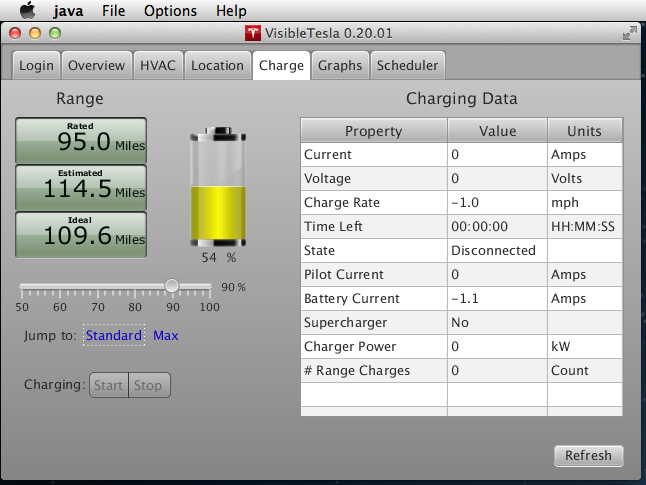
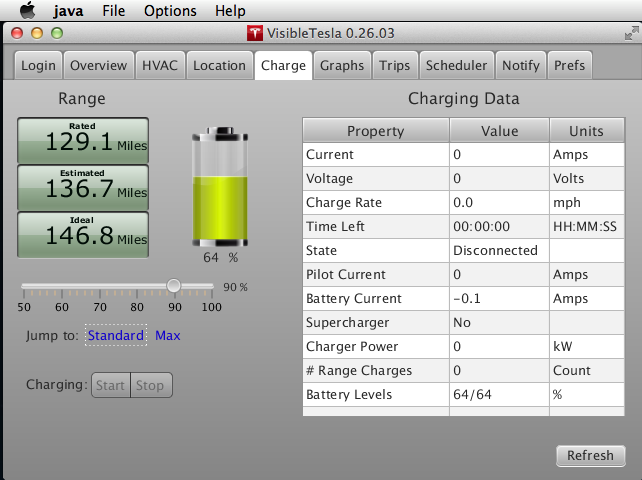
Update the docs

diff --git a/Documentation/ReleaseNotes.html b/Documentation/ReleaseNotes.html
@@ -19,14 +19,98 @@
 			<h1>
 				VisibleTesla Release Notes
 			</h1>
-			<h3>
-				VisibleTesla 0.26.02 [04-14-2014]
+		<h3>
+			VisibleTesla 0.26.03 [04-20-2014]
+		</h3>
+		<ul>
+			<li>User-Visible Changes
+				<ul>
+					<li>General
+						<ul>
+							<li>
+								<span class="changed">Refinement</span>: The proxy fix that was introduced in 0.26.02 has been confirmed to work by several users so I removed the note about it being experimental. 
+							</li>
+								<li>
+									<span class="fixed">Fix</span>: The charts and raw data were always displaying range in terms of miles even when the car's interface was set to kilometers.
+								</li>
+						</ul>
+					</li>
+					<li>Login
+						<ul>
+						</ul>
+					</li>
+					<li>Overview
+						<ul>
+						</ul>
+					</li>
+					<li>HVAC
+						<ul>
+						</ul>
+					</li>
+					<li>Location
+						<ul>
+								<li>
+									<span class="changed">Refinement</span>: Minor updates to the graphics for the Speedometer/Power gauge including a more digital-looking font.
+								</li>
+						</ul>
+					</li>
+					<li>Charge
+						<ul>
+							<li>
+								<span class="fixed">Fix</span>: The snowflake depicting cold weather conditions is actually not derived from the temperature. It was shown when the usable battery level differs from the "normal" battery level. Because I am actually not taking temperature into account (it is the implied reason for the lower usable level), I know longer show a snowflake. Instead, the Battery Gauge shows two distinct levels for this case. The lower level is the usable battery level and the higher level is the "normal" battery level. Both levels are shown at the bottom of the <span class="ui">Charging Data</span> table.
+								<br><br>
+								In the previous version the snowflake would be displayed no matter how insignificant the difference was between levels. This could lead to it being displayed for what were effectively rounding errors. Now the two levels are displayed in the gauge only if the difference is at least 5 percentage points.
+							</li>
+						</ul>
+					</li>
+					<li>Graphs
+						<ul>
+						</ul>
+					</li>
+					<li>Trips
+						<ul>
+						</ul>
+					</li>
+					<li>Scheduler
+						<ul>
+							<li>
+								<span class="changed">Refinement</span>: The message issued by the "Unplugged?" scheduler event now includes the remaining range. When you receive a notification reminding you that your car is unplugged, you'll be able to see the remaining range and decide whether it is worth going out to plug in your car.
+							</li>
+						</ul>
+					</li>
+					<li>Notify
+						<ul>
+						</ul>
+					</li>
+					<li>Prefs
+						<ul>
+						</ul>
+					</li>
+				</ul>
+			</li>
+			<li>Under-the-covers
+				<ul>
+					<li>
+						<span class="fixed">Fix</span>: Fixed a typo in the script that builds a packaged Mac application. This did not impact functionality - it was just a misspelling. 
+					</li>
+				</ul>
+			</li>
+			<li>Known problems
+				<ul>
+				</ul>
+			</li>
+		</ul>
+		<hr>			<h3>
+				VisibleTesla 0.26.02 [04-19-2014]
 			</h3>
 			<ul>
 				<li>User-Visible Changes
 					<ul>
 						<li>General
 							<ul>
+								<li>
+									<span class="fixed">Fix</span>: Modify to handle slightly different error codes from Tesla's server. This impacted the ability to gather location information even after Tesla's servers were fixed.
+								</li>
 								<li>
 									<span class="fixed">Fix</span>: Yet another attempt to make the proxy functionality work. It is now tested with one commercial http proxy and works in that test. The proxy functionality is described in the documentation for the <a href="pages/PrefsTab.html">Prefs Tab</a>. Look for the <span class="ui">Enable Proxy</span> setting.
 								</li>
@@ -51,7 +135,7 @@
 						<li>Location
 							<ul>
 								<li>
-									<span class="added">Addition</span>: Added a speedometer readout in the upper right hand corner of the map. This is similar to what is displayed in Tesla's iPhone application.
+									<span class="added">Addition</span>: Added a speedometer/power readout in the upper right hand corner of the map. This is similar to what is displayed in Tesla's iPhone application, but shows not only the speed, but also an indication of relative power usage.
 								</li>
 							</ul>
 						</li>

diff --git a/Documentation/pages/ChargeTab.html b/Documentation/pages/ChargeTab.html
@@ -189,6 +189,14 @@
                     </tr>
                     <tr>
                         <td>
+                            Battery Levels
+                        </td>
+                        <td>
+                            The charge percentage of the battery and the usable charge percentage. These are normally the same, but the usable level may be lower due to temperature.
+                        </td>
+                    </tr>
+                    <tr>
+                        <td>
                             <a name="ratedRange">Rated Range</a>
                         </td>
                         <td>
@@ -229,11 +237,13 @@
                 </li>
                 <li>When charging with a 3-phase current source, the interpretation of some of these fields may not seem to be correct. Note that VisibleTesla does not compute any of the values reported here. It simply displays the values reported by your car.
                 </li>
-                <li>
-                    Vehicles with firmware 5.9 or later have the ability to give a "usable battery level" reading. Tesla says:
+                <li>Vehicles with firmware 5.9 or later have the ability to give a "usable battery level" reading. Tesla says:
                     <blockquote>
                         In cold weather, some of the stored energy in your Model S’s battery may not be available on your drive because the battery is too cold. When this happens, a portion of the battery meter will appear blue and the range value will have a snowflake image next to it. If your car is plugged in, you can heat your battery using wall power by turning on the Climate Control via the mobile app.
-                    </blockquote>In VisibleTesla, the charge tab reflects this with a snowflake over the battery gauge. When you see the snowflake, the gauge is displaying the usable battery level.
+                    </blockquote>In VisibleTesla, the charge tab reflects this by showing two levels in the battery gauge. It does not display a snowflake. The lower level is the usable level and the higher level is the "normal" level. If the levels are the same (which is most of the time) you'll only see one level displayed. The following screen shot give a couple examples of the multilevel gauge.
+                    <p>
+                        <img class="screenshot" src="../images/07a_Gauge_Levels.png">
+                    </p>
                 </li>
             </ul>
             <p>

diff --git a/Documentation/pages/SchedulerTab.html b/Documentation/pages/SchedulerTab.html
@@ -181,7 +181,7 @@
                                             Unplugged?
                                         </td>
                                         <td>
-                                            Test whether the car is unplugged and if so, send a notification to the user. This is like a timed notification.
+                                            Test whether the car is unplugged and if so, send a notification to the user. This is like a timed notification. If your car is unplugged, the notification will include the car's remaining range. That way you can decide whether or not to go plug it in.
                                         </td>
                                     </tr>
                                     <tr>

diff --git a/Documentation/pages/PrefsTab.html b/Documentation/pages/PrefsTab.html
@@ -163,9 +163,6 @@
                         </td>
                         <td>
                             Allows the user to specify an HTTP proxy (not SOCKS) to be used for all operations. To use this feature, check the "Enable Proxy" checkbox and fill in valid settings for "Proxy Host" and "Proxy Port". Your network administrator will provide these settings to you. You must quit and restart VisibleTesla for these settings to take effect.
-                            <p>
-                                <strong>Note</strong>: This feature has very limited testing and should be considered experimental.
-                            </p>
                         </td>
                     </tr>
                     <tr>
